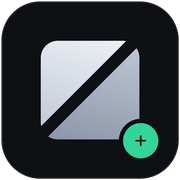
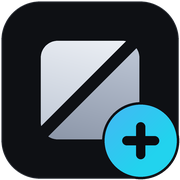
v1.51.1: bold themed plus badge for Ledger+

Changed region(s): [[0.5556, 0.5556, 1.0, 1.0]]

diff --git a/game_tracker.py b/game_tracker.py
@@ -4474,7 +4474,7 @@ class Handler(http.server.BaseHTTPRequestHandler):
         p = self.path.split("?")[0]
         # health — без пароля: для uptime-моніторингу (жодних даних не віддає)
         if p == "/api/health":
-            self._json({"ok": True, "version": "1.51.0", "uptime": int(time.time() - _START_TS)})
+            self._json({"ok": True, "version": "1.51.1", "uptime": int(time.time() - _START_TS)})
             return
         if (p in ("/manifest.json", "/favicon.ico", "/favicon-32.png",
                   "/apple-touch-icon.png", "/sw.js", "/icon.svg", "/icon.png", "/ledger.svg")
@@ -4896,7 +4896,7 @@ self.addEventListener('notificationclick', e => { e.notification.close(); client
                     return os.path.getsize(path)
                 except Exception:
                     return 0
-            self._json({"ok": True, "version": "1.51.0",
+            self._json({"ok": True, "version": "1.51.1",
                         "uptime": int(time.time() - _START_TS),
                         "counts": {"purchases": len(_read_json(PL_FILE, []) or []),
                                    "eldorado": len(_read_json(ED_FILE, []) or []),
@@ -6406,7 +6406,7 @@ def main():
         return 3
 
     print("=" * 60)
-    print("  ▲  Ledger v1.51.0")
+    print("  ▲  Ledger v1.51.1")
     print("  📊 " + _cl("Угоди · Канали · Склад · Аналітика · Бекапи",
                         "Deals · Channels · Stock · Analytics · Backups",
                         "Сделки · Каналы · Склад · Аналитика · Бэкапы"))

diff --git a/ui.py b/ui.py
@@ -149,7 +149,7 @@ h1 span{
 }
 h1 span b{color:var(--a1);font-weight:700}
 #hdrTitle #hdrName{display:inline;font-size:inherit;font-weight:inherit;color:inherit;letter-spacing:inherit;text-transform:none}
-#hdrTitle #planBadge{display:none;align-items:center;justify-content:center;width:21px;height:21px;border-radius:6px;background:linear-gradient(135deg,#F6DEB0,#BE8842);color:#1a1206;font-size:16px;font-weight:900;line-height:1;letter-spacing:0;margin-left:6px;vertical-align:1px;text-transform:none}
+#hdrTitle #planBadge{display:none;align-items:center;justify-content:center;width:21px;height:21px;border-radius:6px;background:linear-gradient(135deg,var(--a3),var(--a4));color:#0b0d12;font-size:16px;font-weight:900;line-height:1;letter-spacing:0;margin-left:6px;vertical-align:1px;text-transform:none}
 
 /* ── tabs ── */
 .tabs{display:flex;gap:6px;border-bottom:1px solid var(--brd);margin-bottom:20px;overflow-x:auto;padding-bottom:2px}

diff --git a/tests/api_smoke.py b/tests/api_smoke.py
@@ -51,7 +51,7 @@ def check(name, cond, info=""):
 print("=== 1. ПУБЛІЧНЕ / АВТОРИЗАЦІЯ ===")
 st, d = call("/api/health", auth=False)
 check("health без пароля", st == 200 and d.get("ok"), st)
-check("версія 1.49.0", d.get("version") == "1.51.0", d)
+check("версія 1.49.0", d.get("version") == "1.51.1", d)
 st, d = call("/api/settings", auth=False)
 auth_open = (st == 200)
 check("API: режим без пароля (або 401, якщо пароль увімкнено)", st in (200, 401), st)

diff --git a/CHANGELOG.md b/CHANGELOG.md
@@ -1,5 +1,11 @@
 # Changelog
 
+## v1.51.1 — readable Ledger+ badge
+
+- The green dot was the plus badge: its arms were too thin and disappeared at 32–53 px.
+- It is now a larger badge with a bold plus, in the app accent gradient (indigo → cyan).
+- The “+” next to the wordmark follows the selected interface theme instead of a fixed gold.
+
 ## v1.51.0 — new mark and cleaner header
 
 - New monochrome mark: a metal tile split by a diagonal blade (no letter, no gold, no LoL resemblance).
